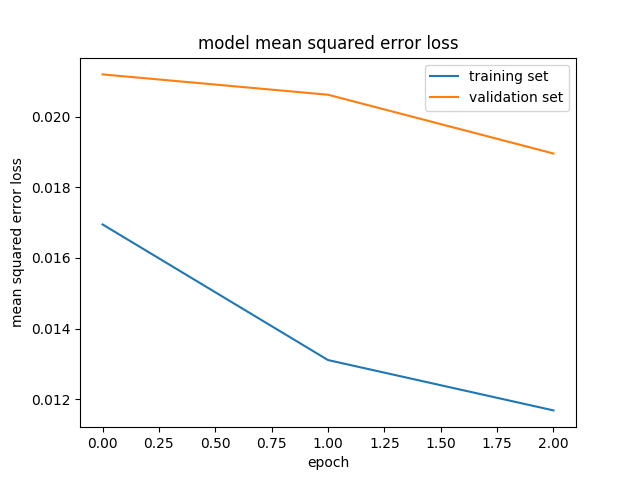
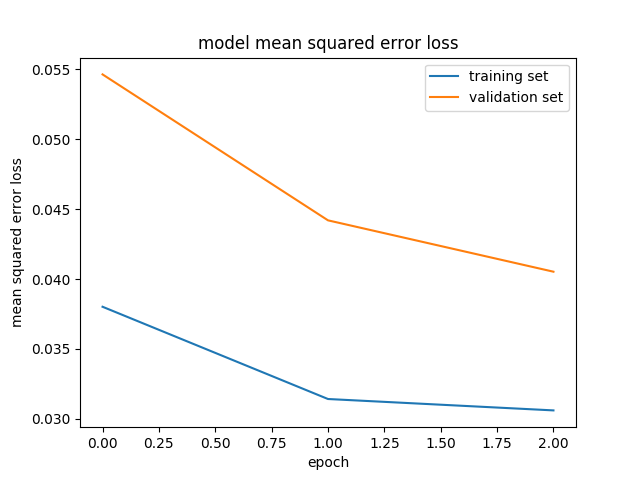
Update dropout, cropping and training directories

diff --git a/model.py b/model.py
@@ -2,71 +2,114 @@
 import cv2
 import csv
 import numpy as np
+# from keras.utils.visualize_util import plot
+import matplotlib.pyplot as plt
 
-lines = []
-with open('data/driving_log.csv') as csvfile:
-    reader = csv.reader(csvfile)
-    for line in reader:
-        lines.append(line)
-images = []
-measurements = []
+def processing(x):
+    return x
+
 ## for unix, path splitter is /
 ## for windows, path splitter is \
-#PATH_SEPARATOR = '\\'
-PATH_SEPARATOR = '/'
-STEERING_CORRECTION = 0.2
-for line in lines:
-    steering_center = float(line[3])
-    steering_left = steering_center + STEERING_CORRECTION
-    steering_right = steering_center - STEERING_CORRECTION
+PATH_SEPARATOR = '\\'
+# PATH_SEPARATOR = '/'
+STEERING_CORRECTION = 0.3
+EPOCH_NO = 3
+SAVE_MODEL_NAME = 'model.h5'
 
-    center_filename = line[0].split(PATH_SEPARATOR)[-1]
-    left_filename = line[1].split(PATH_SEPARATOR)[-1]
-    right_filename = line[2].split(PATH_SEPARATOR)[-1]
-    current_path = 'data' + PATH_SEPARATOR + 'IMG' + PATH_SEPARATOR
-    center_image = cv2.imread(current_path + center_filename)
-    left_image = cv2.imread(current_path + left_filename)
-    right_image = cv2.imread(current_path + right_filename)
-    images.extend([center_image, left_image, right_image])
-    measurements.extend([steering_center, steering_left, steering_right])
-#    images.append(center_image)
-#    measurements.append(steering_center)
+data_dirs = ['data1', 'data2', 'data3', 'data4']
+# data_dirs = ['data']
+#
+# collect data from data directories
+images = []
+measurements = []
+for i in range(len(data_dirs)):
+    lines = []
+    with open(data_dirs[i] + '/driving_log.csv') as csvfile:
+        reader = csv.reader(csvfile)
+        for line in reader:
+            lines.append(line)
+
+    for line in lines:
+        steering_center = float(line[3])
+        steering_left = steering_center + STEERING_CORRECTION
+        steering_right = steering_center - STEERING_CORRECTION
+
+        center_filename = line[0].split(PATH_SEPARATOR)[-1]
+        left_filename = line[1].split(PATH_SEPARATOR)[-1]
+        right_filename = line[2].split(PATH_SEPARATOR)[-1]
+        current_path = data_dirs[i] + PATH_SEPARATOR + 'IMG' + PATH_SEPARATOR
+        center_image = processing(cv2.imread(current_path + center_filename))
+        left_image = processing(cv2.imread(current_path + left_filename))
+        right_image = processing(cv2.imread(current_path + right_filename))
+        images.extend([center_image, left_image, right_image])
+        measurements.extend([steering_center, steering_left, steering_right])
+
+#
+# Data Augmentation with flipping side of images
+#
 
 augmented_images, augmented_measurements = [], []
 for image, measurement in zip(images, measurements):
+    if measurement == 0:
+        continue
     augmented_images.append(image)
     augmented_measurements.append(measurement)
     augmented_images.append(cv2.flip(image, 1))
     augmented_measurements.append(measurement * -1.0)
-
+#   ---------------------------------------------------
 X_train = np.array(augmented_images)
 y_train = np.array(augmented_measurements)
-
+#
+# use keras to build NVIDIA Model
+#
+DROPOUT_RATE = 0.5
+#
 from keras.models import Sequential
 from keras.layers import Flatten, Dense, Lambda, Activation, Dropout, Cropping2D
 from keras.layers.convolutional import Convolution2D
 ##from keras.layers.pooling import MaxPooling2D
 
-#dropout_prob = 0.5
-
 model = Sequential()
 model.add(Lambda(lambda x: x / 255.0 - 0.5, input_shape=(160, 320, 3)))
 ### cropping
-model.add(Cropping2D(cropping=((60, 25), (0,0))))
+model.add(Cropping2D(cropping=((70, 25), (24,24))))
 
 model.add(Convolution2D(24, 5, 5, subsample=(2,2), activation="relu"))
+model.add(Dropout(DROPOUT_RATE))
 model.add(Convolution2D(36, 5, 5, subsample=(2,2), activation="relu"))
+model.add(Dropout(DROPOUT_RATE))
 model.add(Convolution2D(48, 5, 5, subsample=(2,2), activation="relu"))
+model.add(Dropout(DROPOUT_RATE))
 model.add(Convolution2D(64, 3, 3, activation="relu"))
+model.add(Dropout(DROPOUT_RATE))
 model.add(Convolution2D(64, 3, 3, activation="relu"))
+model.add(Dropout(DROPOUT_RATE))
 
 model.add(Flatten())
 model.add(Dense(100))
+model.add(Dropout(DROPOUT_RATE))
 model.add(Dense(50))
+model.add(Dropout(DROPOUT_RATE))
 model.add(Dense(10))
 model.add(Dense(1))
 model.compile(loss='mse', optimizer='adam')
-model.fit(X_train, y_train, validation_split=0.2, shuffle=True, nb_epoch=3)
+# plot(model, to_file='model.png')
 
-model.save('model_02.h5')
-print("model saved!")
+history_object = model.fit(X_train, y_train, validation_split=0.2, shuffle=True, nb_epoch=EPOCH_NO)
+# model.fit(X_train, y_train, validation_split=0.2, shuffle=True, nb_epoch=EPOCH_NO)
+
+model.save(SAVE_MODEL_NAME)
+print("model saved as %s" % SAVE_MODEL_NAME)
+
+# print(history_object.history.keys())
+
+#
+# plot the training and validation loss for each epoch
+#
+plt.plot(history_object.history['loss'])
+plt.plot(history_object.history['val_loss'])
+plt.title('model mean squared error loss')
+plt.ylabel('mean squared error loss')
+plt.xlabel('epoch')
+plt.legend(['training set', 'validation set'], loc='upper right')
+plt.show()

diff --git a/drive.py b/drive.py
@@ -44,6 +44,13 @@ class SimplePIController:
         return self.Kp * self.error + self.Ki * self.integral
 
 
+def preprocessing(x):
+    # return cv2.cvtColor(x, cv2.COLOR_RGB2HLS)
+    # cropping to 60 pixels and bottom 25 pixels
+    # return x[60:160 - 25, :, :]
+    return x
+
+
 controller = SimplePIController(0.1, 0.002)
 set_speed = 15
 controller.set_desired(set_speed)
@@ -61,6 +68,10 @@ def telemetry(sid, data):
         imgString = data["image"]
         image = Image.open(BytesIO(base64.b64decode(imgString)))
         image_array = np.asarray(image)
+        ### add preprocessing
+        image_array = preprocessing(image_array)
+        ###
+
         steering_angle = float(model.predict(image_array[None, :, :, :], batch_size=1))
 
         throttle = controller.update(float(speed))
